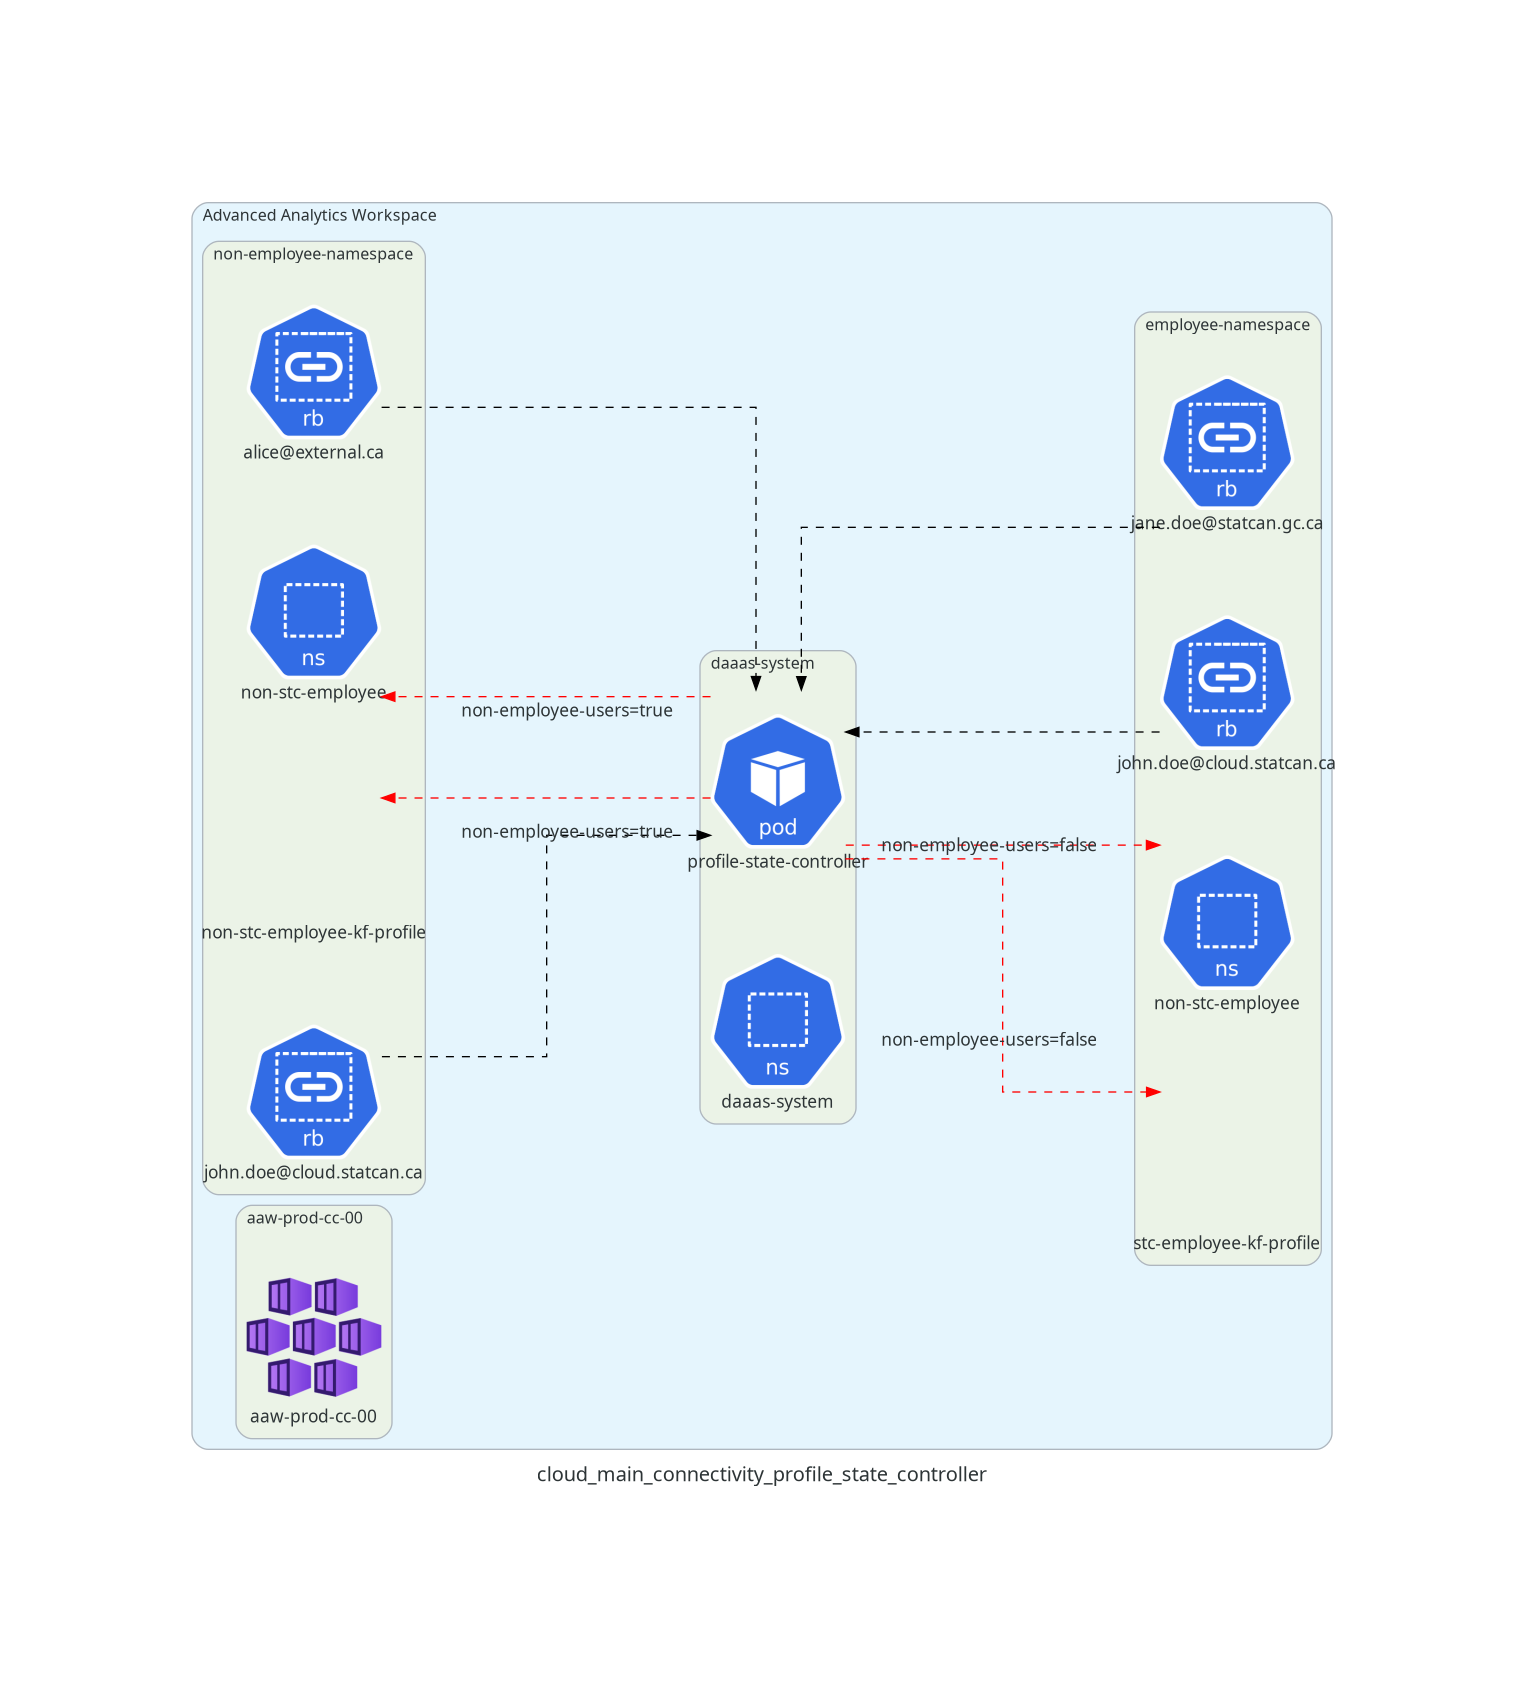
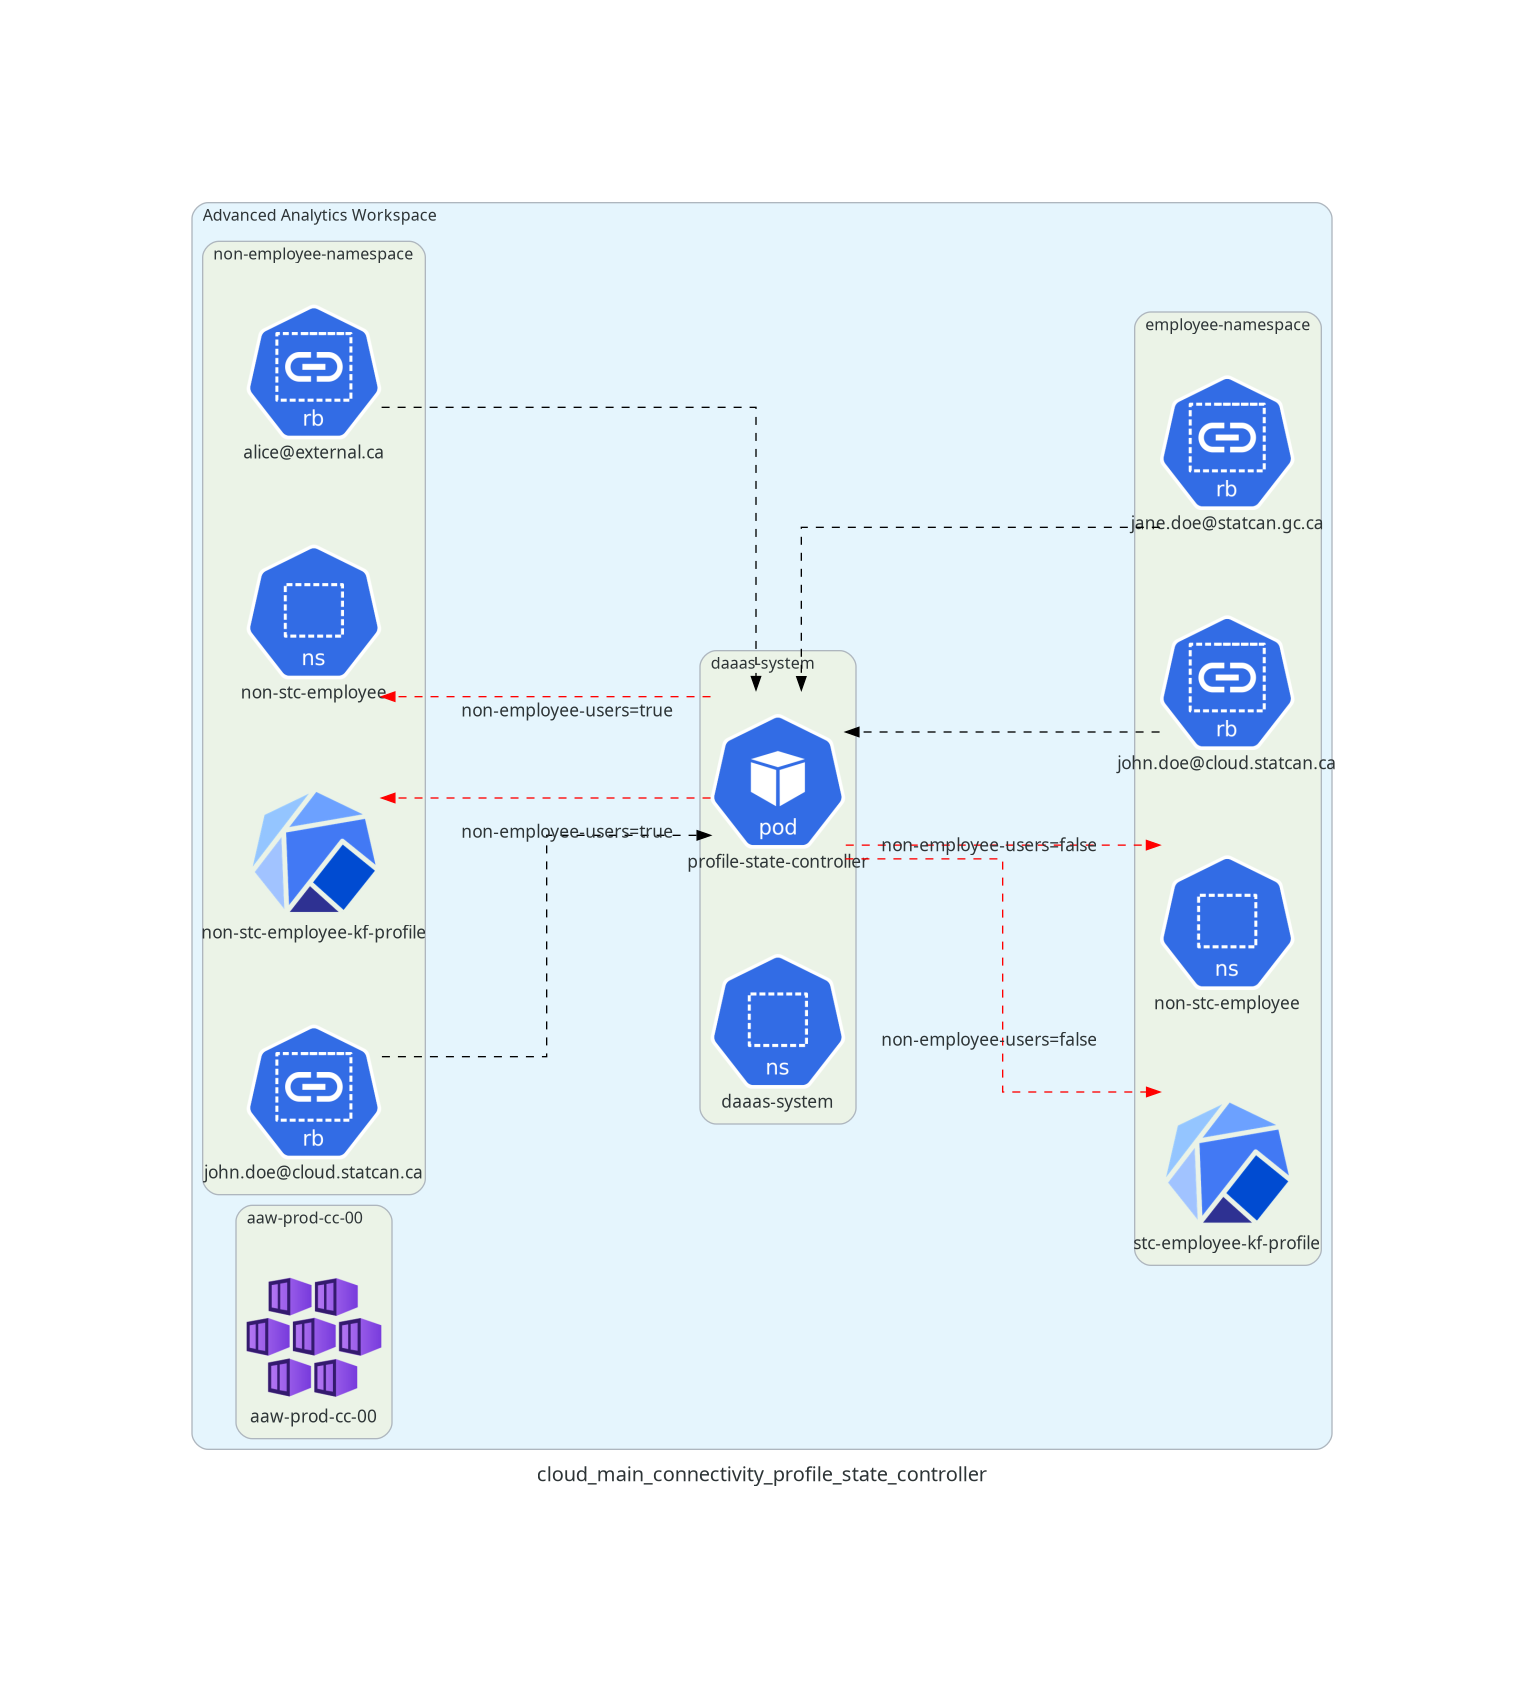
docs(cloud-main-connectivity): update architecture diagrams

Changed region(s): [[0.1542, 0.4629, 0.2467, 0.5555], [0.771, 0.6481, 0.8635, 0.7407]]

diff --git a/docs/features/cloud-main-connectivity/cloud_main_connectivity_egress_gateway_deployed_components.py b/docs/features/cloud-main-connectivity/cloud_main_connectivity_egress_gateway_deployed_components.py
@@ -1,0 +1,85 @@
+import os
+
+from diagrams import Cluster, Diagram, Edge
+from diagrams.azure.compute import AKS
+from diagrams.custom import Custom
+from diagrams.k8s.others import CRD
+from diagrams.k8s.compute import Deployment
+from diagrams.k8s.group import NS
+from diagrams.k8s.network import NetworkPolicy
+from diagrams.k8s.rbac import RoleBinding, Role, ServiceAccount
+from diagrams.k8s.podconfig import Secret
+from diagrams.onprem.compute import Server
+
+from diagrams.onprem.network import Istio
+
+
+def myself() -> str:
+    f = os.path.basename(__file__)
+    no_ext = ".".join(f.split(".")[:-1])
+    return no_ext
+
+
+with Diagram(myself(), show=False):
+    cnn_site = Server("edition.cnn.com")
+    with Cluster("aaw-dev-cc-00"):
+        aaw_dev_cc_00 = AKS("aaw-dev-cc-00")
+        with Cluster("istio-operator-system"):
+            istio_operator_system_ns = NS("istio-operator-system")
+            istio_operator_controller = Deployment("istio-operator")
+        with Cluster("istio-system"):
+            istio_system_ns = NS("istio-system")
+            istio_daemon = Deployment("istiod")
+        with Cluster("cloud-main-system"):
+            cloud_main_system_ns = NS("cloud-main-system")
+            cnn_egress_gateway_debug = Deployment("cnn-egress-gateway-debug")
+            cnn_egress_gateway_debug_sa = ServiceAccount("cnn-egress-gateway-debug-sa")
+            cnn_egress_gateway_debug_sa_token = Secret("cnn-egress-gateway-debug-sa-token")
+            istio_operator = CRD("cnn-egress-gateway-debug")
+            # rbac
+            allow_get_secrets_role = Role("allow-get-secrets")
+            allow_get_secrets_rb = RoleBinding("allow-get-secrets")
+            # network policy
+            allow_ingress_from_collin_brown = NetworkPolicy("allow-ingress-from-collin-brown")
+            # istio
+            cnn_gateway = Istio("cnn-gateway")
+        with Cluster("collin-brown"):
+            collin_brown_ns = NS("collin-brown")
+            jupyter_notebook = Custom("test-employee-notebook", icon_path="img/jupyter.png")
+            # network policy
+            allow_egress_to_cloud_main = NetworkPolicy("allow-egress-to-cloud-main")
+            # istio
+            cnn_virtual_service = Istio("cnn-virtual-service")
+            cnn_destination_rule = Istio("cnn-destination-rule")
+            cnn_service_entry = Istio("cnn-service-entry")
+
+        # Istio Operator Controller watches a set of namespaces for deployments of IstioOperator resources
+        istio_operator_controller >> Edge(style="dashed", color="black", label="watches") >> cloud_main_system_ns
+        # IstioOperator currently uses minimal profile and deploys istiod into istio-system namespace
+        istio_operator >> Edge(style="dashed", color="purple", label="deploys") >> istio_daemon
+        # IstioOperator currently deploys an egress gateway into the `cloud-main-system` namespace
+        istio_operator >> Edge(style="dashed", color="purple", label="deploys") >> cnn_egress_gateway_debug
+        # IstioOperator deploys service account and secret with service account JWT into cloud-main-system namespace
+        istio_operator >> Edge(style="dashed", color="purple", label="deploys") >> cnn_egress_gateway_debug_sa
+        istio_operator >> Edge(style="dashed", color="purple", label="deploys") >> cnn_egress_gateway_debug_sa_token
+
+        # cnn_egress_gateway_debug pod runs under cnn_egress_gateway_debug_sa service account
+        cnn_egress_gateway_debug >> Edge(style="dashed", color="black", label="runs under") >> cnn_egress_gateway_debug_sa
+        # Rolebinding allows pods running under cnn_egress_gateway_debug service account to get secrets in the cloud-main-system namespace
+        cnn_egress_gateway_debug_sa - Edge(style="dashed", color="black") - allow_get_secrets_rb -  Edge(style="dashed", color="black") - allow_get_secrets_role
+
+        # Istio Gateway resource configures egress gateway
+        cnn_gateway >> Edge(style="dashed", color="brown", label="configures") >> cnn_egress_gateway_debug
+
+        # Service entry adds the external site edition.cnn.com to the service mesh
+        cnn_service_entry >> Edge(style="dashed", color="blue", label="adds to mesh") >> cnn_site
+
+        # Istio configurations are exported to relevant namespaces
+        cnn_destination_rule >> Edge(style="dashed", color="blue", label="exports") >> cloud_main_system_ns
+        cnn_destination_rule >> Edge(style="dashed", color="blue", label="exports") >> collin_brown_ns
+
+        cnn_service_entry >> Edge(style="dashed", color="blue", label="exports") >> cloud_main_system_ns
+        cnn_service_entry >> Edge(style="dashed", color="blue", label="exports") >> collin_brown_ns
+
+        cnn_virtual_service >> Edge(style="dashed", color="blue", label="exports") >> cloud_main_system_ns
+        cnn_virtual_service >> Edge(style="dashed", color="blue", label="exports") >> collin_brown_ns

diff --git a/docs/features/cloud-main-connectivity/cloud_main_connectivity_egress_gateway_behaviour.py b/docs/features/cloud-main-connectivity/cloud_main_connectivity_egress_gateway_behaviour.py
@@ -10,7 +10,9 @@ from diagrams.k8s.network import NetworkPolicy
 from diagrams.k8s.rbac import RoleBinding, Role, ServiceAccount
 from diagrams.k8s.podconfig import Secret
 from diagrams.onprem.compute import Server
+
 from diagrams.onprem.network import Istio
+
 
 def myself() -> str:
     f = os.path.basename(__file__)
@@ -38,11 +40,11 @@ with Diagram(myself(), show=False):
             allow_get_secrets_role = Role("allow-get-secrets")
             allow_get_secrets_rb = RoleBinding("allow-get-secrets")
             # network policy
-            allow_ingress_from_collin_brown = NetworkPolicy("allow-ingress-from-stc-employee")
+            allow_ingress_from_collin_brown = NetworkPolicy("allow-ingress-from-collin-brown")
             # istio
             cnn_gateway = Istio("cnn-gateway")
-        with Cluster("stc-employee"):
-            collin_brown_ns = NS("stc-employee")
+        with Cluster("collin-brown"):
+            collin_brown_ns = NS("collin-brown")
             jupyter_notebook = Custom("test-employee-notebook", icon_path="img/jupyter.png")
             # network policy
             allow_egress_to_cloud_main = NetworkPolicy("allow-egress-to-cloud-main")
@@ -57,7 +59,7 @@ with Diagram(myself(), show=False):
         # Rolebinding allows pods running under cnn_egress_gateway_debug service account to get secrets in the cloud-main-system namespace
         cnn_egress_gateway_debug_sa - Edge(style="dashed", color="black") - allow_get_secrets_rb -  Edge(style="dashed", color="black") - allow_get_secrets_role
 
-        # Network policies are set up in both directions to allow ingress from stc-employee and egress to cloud-main-system
+        # Network policies are set up in both directions to allow ingress from collin-brown and egress to cloud-main-system
         allow_egress_to_cloud_main - Edge(style="dashed", color="green", label="allows") - cloud_main_system_ns
         allow_ingress_from_collin_brown - Edge(style="dashed", color="green", label="allows") - collin_brown_ns
 

diff --git a/docs/features/cloud-main-connectivity/cloud_main_connectivity_profile_state_controller.py b/docs/features/cloud-main-connectivity/cloud_main_connectivity_profile_state_controller.py
@@ -1,6 +1,6 @@
 import os
-import profile
 
+from diagrams.onprem.workflow import Kubeflow
 from diagrams import Cluster, Diagram, Edge
 from diagrams.azure.compute import AKS
 from diagrams.custom import Custom
@@ -21,12 +21,12 @@ with Diagram(myself(), show=False):
         with Cluster("aaw-prod-cc-00"):
             aaw_prod_cc_00 = AKS("aaw-prod-cc-00")
         with Cluster("non-employee-namespace"):
-            non_stc_employee_kf_profile = Custom("non-stc-employee-kf-profile", icon_path="icons/kubeflow.png")
+            non_stc_employee_kf_profile = Kubeflow("non-stc-employee-kf-profile")
             non_stc_employee_ns = NS("non-stc-employee")
             john_doe_rb_1 = RoleBinding("john.doe@cloud.statcan.ca")
             alice_rb = RoleBinding("alice@external.ca")
         with Cluster("employee-namespace"):
-            stc_employee_kf_profile = Custom("stc-employee-kf-profile", icon_path="icons/kubeflow.png")
+            stc_employee_kf_profile = Kubeflow("stc-employee-kf-profile")
             stc_employee_ns = NS("non-stc-employee")
             jane_doe_rb = RoleBinding("jane.doe@statcan.gc.ca")
             john_doe_rb_2 = RoleBinding("john.doe@cloud.statcan.ca")
